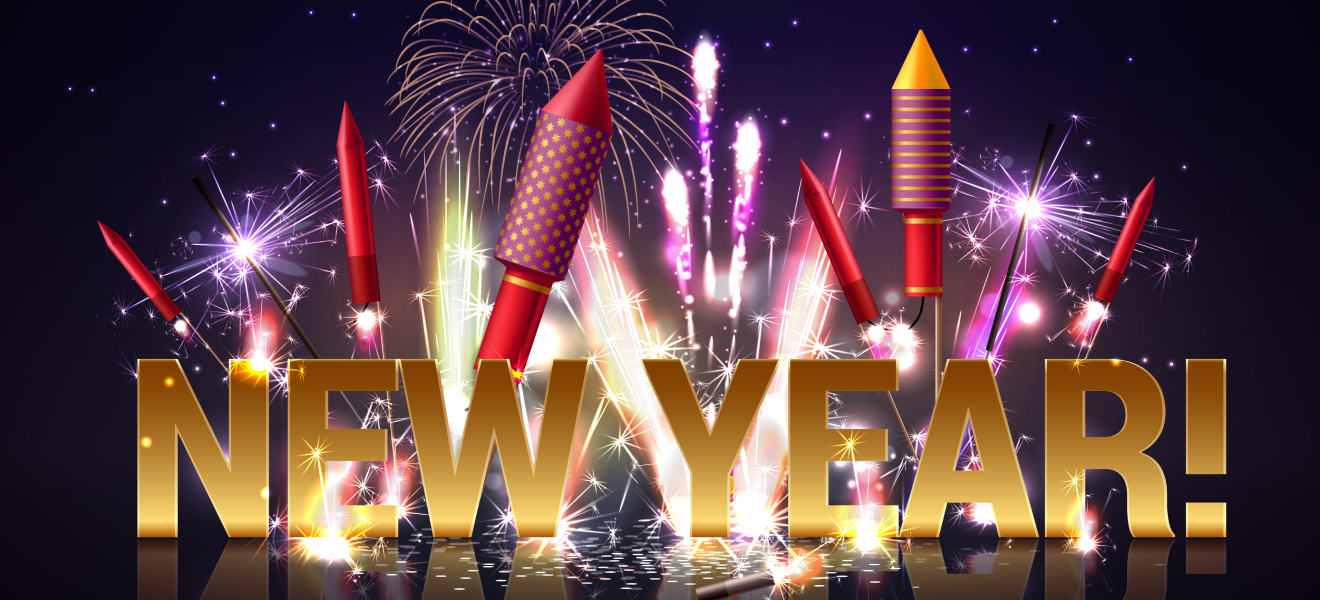
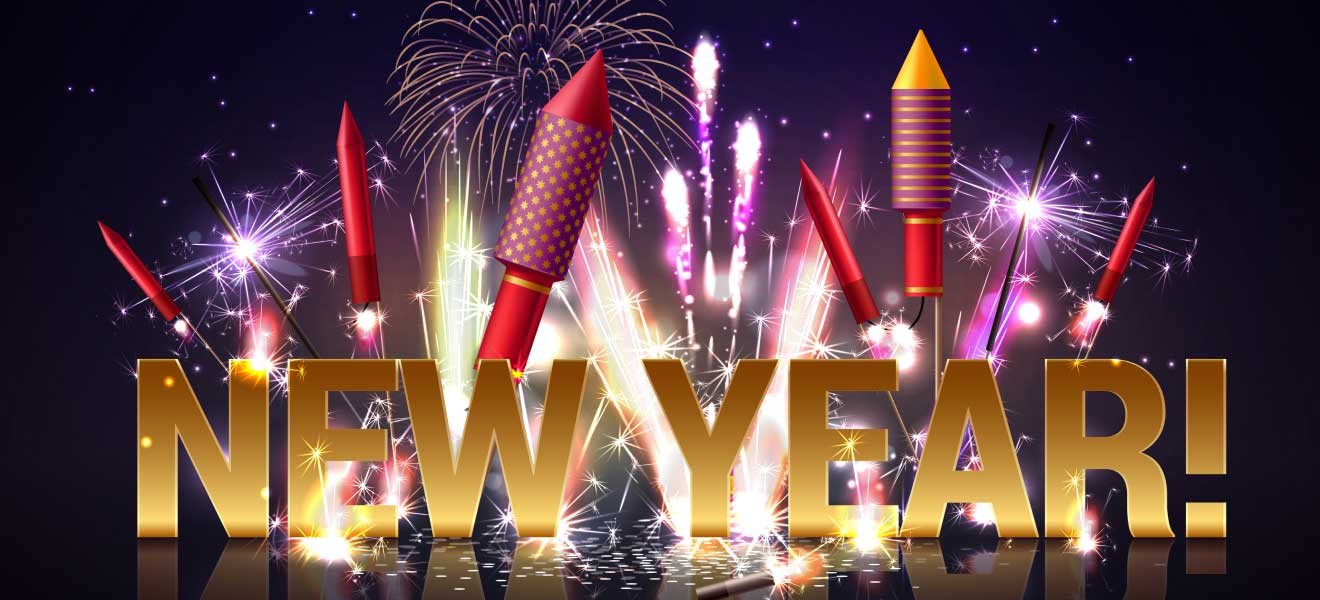
Section three: Added text and CSS to make it perfect.

diff --git a/css/style.css b/css/style.css
@@ -1,3 +1,4 @@
+/* Global CSS Start */
 * {
     padding: 0;
     margin: 0;
@@ -6,6 +7,7 @@
 a {
     text-decoration: none;
     color: #FF0000;
+    font-size: 16px;
 }
 h1,
 h2,
@@ -15,6 +17,25 @@ h5,
 h6 {
     font-family: 'Merriweather', serif;
 }
+p {
+    line-height: 1.6em;
+    font-size: 16px;
+}
+a.xs-btn {
+    border: 1px solid #ff0000;
+    display: inline-block;
+    width: 125px;
+    text-align: center;
+    color: #fff;
+    padding: 15px 25px;
+    border-radius: 10px;
+    background: #ff0000;
+    transition: .3s;
+}
+a.xs-btn:hover {
+    background: transparent !important;
+}
+/* Global CSS END */
 .container {
     max-width: 1320px;
     margin: auto;
@@ -93,4 +114,58 @@ h6 {
 }
 .xs-offer-content img {
     max-width: 800px;
+}
+/* Welcome Text Section CSS */
+#welcome-text-section {
+    margin-top: 60px;
+}
+#welcome-text-section .container {
+    position: relative;
+    background-image: url("/images/sec-3bg.jpg");
+    overflow: hidden;
+    border-radius: 20px;
+}
+#welcome-text-section .container:before {
+    border-radius: 20px;
+    content: "";
+    position: absolute;
+    top: 0;
+    left: 0;
+    width: 100%;
+    height: 100%;
+    background-image: url("/images/welcome-text-bg-color.svg");
+}
+.xs-welcome-content {
+    z-index: 99;
+    position: relative;
+    padding: 60px;
+    overflow: hidden;
+    display: flex;
+}
+.xs-welcome-content .xs-wl {
+    width: 70%;
+    float: left;
+    display: flex;
+    flex-direction: column;
+    justify-content: center;
+}
+.xs-welcome-content .xs-wr {
+    width: 30%;
+    float: left;
+    text-align: right;
+}
+.xs-welcome-content h2 {
+    font-size: 62px;
+    color: #fff;
+    line-height: 1.1;
+    margin-bottom: 20px;
+}
+.xs-welcome-content h2 span {
+    font-family: 'Merriweather', serif;
+    display: block;
+}
+.xs-welcome-content p {
+    color: #fff;
+    margin-bottom: 20px;
+    max-width: 630px;
 }

diff --git a/index.html b/index.html
@@ -19,13 +19,29 @@
             </div>
         </div>
     </section>
+    <!-- Offer section -->
     <section id="offer-section">
         <div class="container">
             <div class="xs-offer-content">
                 <p class="offer-text">65% OFF</p>
                 <p class="offer-sub-text">our holiday deals are better</p>
                 <p class="offer-categories">ALL CATEGORIES</p>
-                <img src="/images/happy-new-year-text.png" alt="">
+                <img src="/images/happy-new-year-text.jpg" alt="">
+            </div>
+        </div>
+    </section>
+    <!-- Welcome section -->
+    <section id="welcome-text-section">
+        <div class="container">
+            <div class="xs-welcome-content">
+                <div class="xs-wl">
+                    <h2>Welcome to <span>midnight party</span></h2>
+                    <p>Step into the enchanting realm of the midnight party, where laughter resonates and memories come alive beneath the celestial glow. Join us for an unforgettable night filled with joy, surrounded by the magic of starlit celebrations that weave tales of camaraderie and delight in the tapestry of the night.</p>
+                    <a href="#" class="xs-btn">Join Now</a>
+                </div>
+                <div class="xs-wr">
+                    <img src="/images/logo2024.png" alt="">
+                </div>
             </div>
         </div>
     </section>
